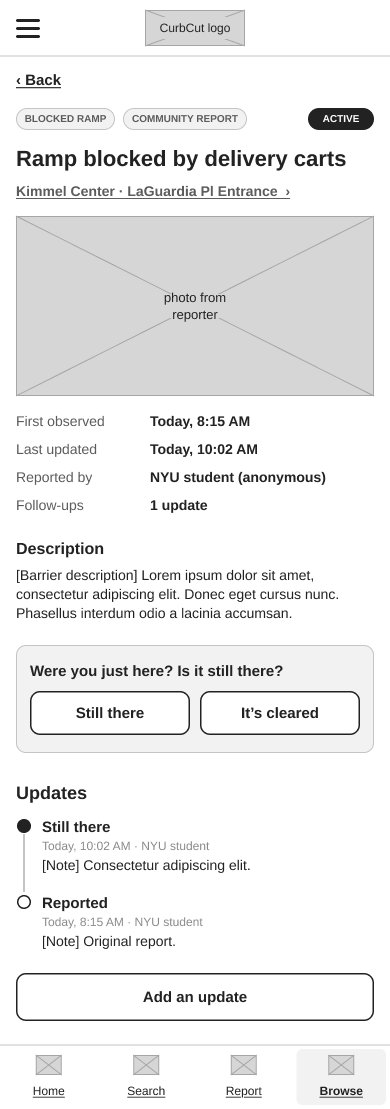
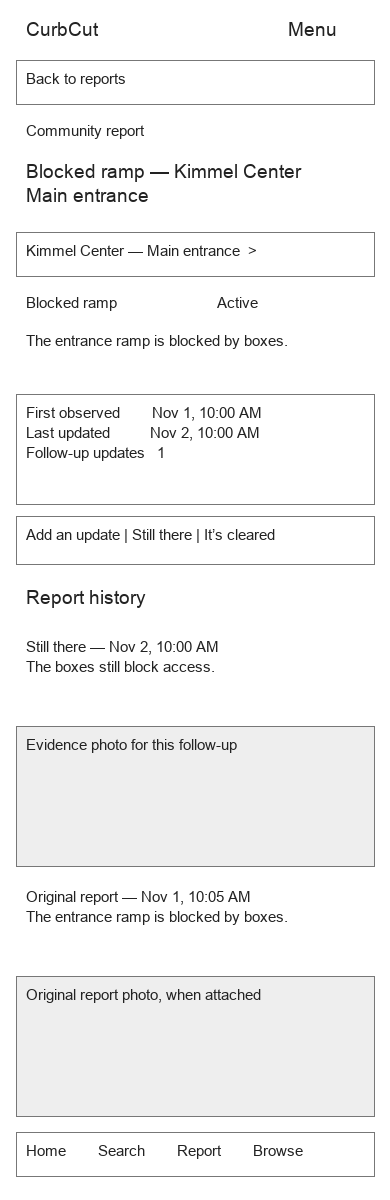
update report details and follow up wireframes for #102

diff --git a/ux-design/UX-DESIGN.md b/ux-design/UX-DESIGN.md
@@ -7,6 +7,8 @@
 
 The prototype starts at Home (M01). It covers finding a building or barrier, checking entrance information, posting a report or follow-up, and browsing reports. Screen content is sample data for the Sprint 0 design; the prototype does not establish live building conditions.
 
+For the Sprint 1 M10–M12 revisions, use [wireframes.drawio](wireframes.drawio) and the PNGs below. The linked Figma source and prototype still show the earlier versions.
+
 ## App map
 
 ![CurbCut app map](app-map.png)
@@ -81,19 +83,19 @@ An entrance page shows documented step-free access, door, ramp, elevator, and op
 
 #### M10 — Report detail
 
-A report shows its location, category, status, photo placeholder, first-observed and last-updated times, description, and update history. Users can indicate whether the barrier remains or add a follow-up.
+A report shows its location, category, status, timestamps, description, and follow-up count. History shows updates newest first with their own evidence photos, followed by the original report and photo. Update buttons open the form without posting.
 
 <img src="wireframes/m10-report-detail.png" alt="M10: Report detail" width="390">
 
-#### M11 — Add update (overlay)
+#### M11 — Add update (inline form)
 
-Choose whether the barrier is still there, cleared, or changed, add a note, and post the update. Cancel closes the panel without posting.
+Choose whether the barrier is still there, cleared, or changed, and enter a required note. Clearance also requires a photo, with preview, replacement, removal, and missing-field feedback. Cancel closes the form without posting.
 
-<img src="wireframes/m11-add-update.png" alt="M11: Add update (overlay)" width="390">
+<img src="wireframes/m11-add-update.png" alt="M11: Add update (inline form)" width="390">
 
 #### M12 — Report detail — update posted
 
-A confirmation banner acknowledges the posted update. The report shows the new update in its history and an increased follow-up count.
+A dismissible confirmation acknowledges the update. The new entry and photo appear first, with an increased count and updated time and status. Earlier history remains intact.
 
 <img src="wireframes/m12-report-update-posted.png" alt="M12: Report detail — update posted" width="390">
 
